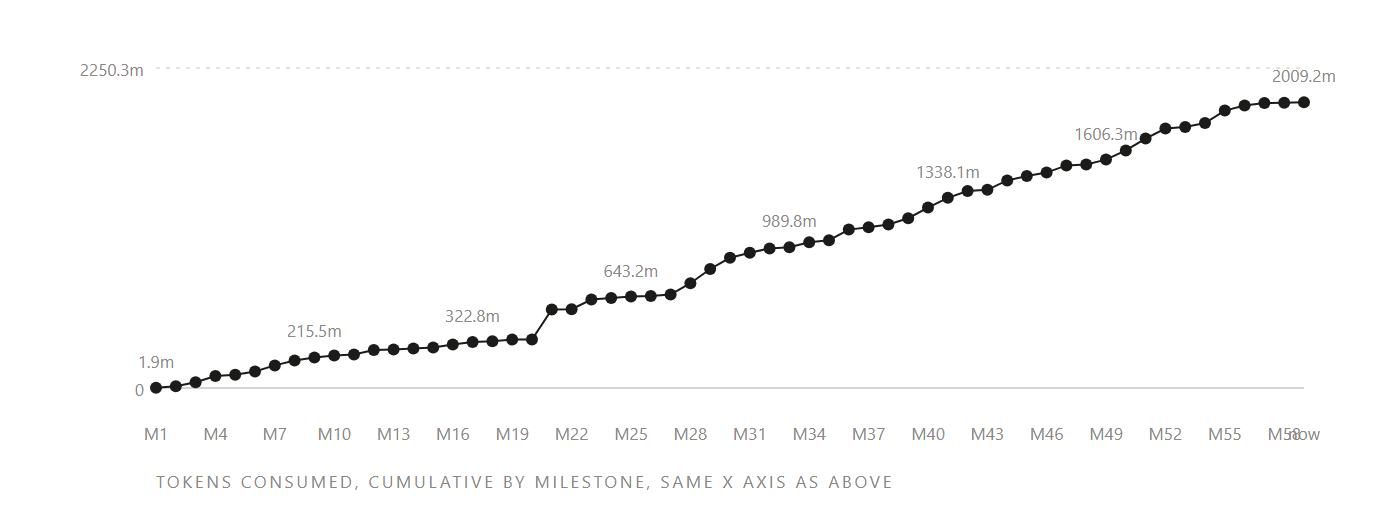
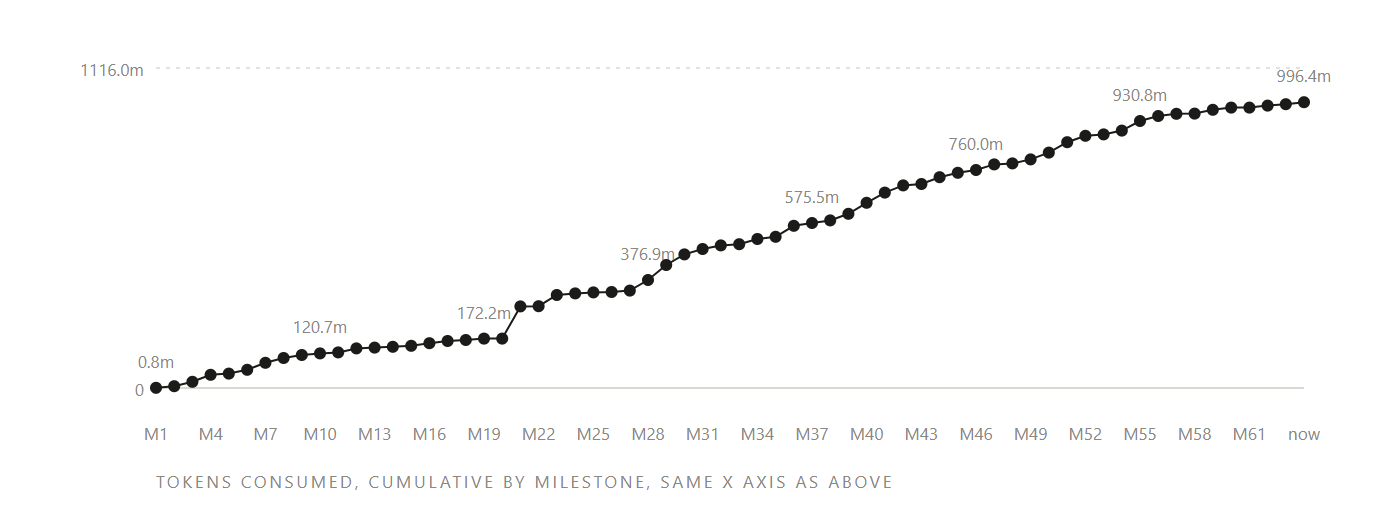
Re-export the two README logbook charts, closing the one deferred item
Playwright (Python) installed and pointed at the Chrome already on
this machine via channel="chrome", no separate Chromium download
needed. Extracts the two EN growth-chart SVGs straight out of the
built docs/logbook.html, wraps each in a minimal standalone page
carrying only the CSS rules those charts depend on (font-family,
.svg-cap, .svg-sub), and screenshots at a native 2x device scale.
Output matches the previous exports' dimensions exactly, 1400x520
each, RGB.

Both PNGs now show the corrected, sixty-three-milestone state
instead of the pre-fix fifty-eight. README alt text updated to match
in all three languages. NEXT-STEPS.md/.pt/.es marks the previously
deferred item closed, same day.

diff --git a/NEXT-STEPS.es.md b/NEXT-STEPS.es.md
@@ -66,7 +66,7 @@ En orden. Cada elemento trae su criterio de listo.
 
 Dos cosas que el relato también señaló como ya funcionando según lo previsto, registradas aquí en vez de convertidas en acción: la propia regla de dimensionamiento de este proyecto (un harness tiene que ser más pequeño que la superficie de falla que controla) se sostuvo como criterio real de decisión en ese proyecto externo más pequeño, que deliberadamente no llevó ninguna de las 38 skills ni el pipeline trilingüe de este repositorio; y un único script de checklist consolidado de prepublicación, en ese mismo proyecto, atrapó en segundos una brecha real de navegación que ocho días de revisión manual habían dejado pasar, el mismo argumento de "evidencia, no opinión" que este proyecto hace sobre los sensores.
 
-Un ítem dejado abierto a propósito: los dos gráficos del diario incrustados en el README (`docs/assets/logbook-words-published.png`, `logbook-tokens-consumed.png`) se exportan vía Chrome headless, no disponible en este entorno, así que ahora quedan una regeneración atrasados respecto a `docs/logbook.html` (todavía con la leyenda de cincuenta y ocho hitos y el conteo de tokens de antes de la corrección, el estado actual es sesenta y un hitos y el total corregido). Reexportar los dos PNG en la próxima sesión que tenga la herramienta de navegador, antes de que esto se atrase más.
+**El único ítem dejado abierto arriba, cerrado el mismo día.** Los dos gráficos del diario incrustados en el README necesitaban Chrome headless, no disponible en ese momento; se instaló Playwright (Python) y se apuntó al navegador que ya existía en esta máquina (`channel="chrome"`, sin descargar un Chromium aparte), que extrajo los dos SVG de los gráficos directo del `docs/logbook.html` ya montado y reexportó ambos a una escala nativa de dispositivo 2x, 1400×520 píxeles cada uno, coincidiendo exactamente con la dimensión de las exportaciones anteriores. Los dos ahora muestran el estado corregido de sesenta y tres hitos; el texto alternativo del README se actualizó para coincidir, en los tres idiomas.
 
 ---
 

diff --git a/NEXT-STEPS.pt.md b/NEXT-STEPS.pt.md
@@ -66,7 +66,7 @@ Em ordem. Cada item traz seu critério de pronto.
 
 Duas coisas que o relato também apontou como já funcionando como deveriam, registradas aqui em vez de viraram ação: a própria regra de dimensionamento deste projeto (um harness precisa ser menor que a superfície de falha que ele controla) se sustentou como critério real de decisão naquele projeto externo menor, que deliberadamente não trouxe nenhuma das 38 skills nem o pipeline trilíngue deste repositório; e um único script de checklist consolidado de pré-publicação, naquele mesmo projeto, pegou em segundos uma lacuna real de navegação que oito dias de revisão manual tinham deixado passar, o mesmo argumento de "evidência, não opinião" que este projeto faz sobre verificadores.
 
-Um item deixado em aberto de propósito: os dois gráficos do diário embutidos no README (`docs/assets/logbook-words-published.png`, `logbook-tokens-consumed.png`) são exportados via Chrome headless, indisponível neste ambiente, então agora ficam uma regeneração atrasados em relação a `docs/logbook.html` (ainda com legenda de cinquenta e oito marcos e a contagem de token de antes da correção, o estado atual é sessenta e um marcos e o total corrigido). Reexportar os dois PNGs na próxima sessão que tiver a ferramenta de navegador, antes que isso atrase mais.
+**O único item deixado em aberto acima, fechado no mesmo dia.** Os dois gráficos do diário embutidos no README precisavam de Chrome headless, indisponível no momento; o Playwright (Python) foi instalado e apontado para o navegador que já existia nesta máquina (`channel="chrome"`, sem baixar um Chromium separado), que extraiu os dois SVGs dos gráficos direto do `docs/logbook.html` já montado e reexportou os dois numa escala nativa de dispositivo 2x, 1400×520 pixels cada, batendo exatamente com a dimensão das exportações anteriores. Os dois agora mostram o estado corrigido de sessenta e três marcos; o texto alternativo do README foi atualizado para bater, nas três línguas.
 
 ---
 

diff --git a/NEXT-STEPS.md b/NEXT-STEPS.md
@@ -66,7 +66,7 @@ In order. Every item carries its done criterion.
 
 Two things the write-up also named as working as intended, kept here for the record rather than acted on: this project's own sizing rule (a harness has to be smaller than the failure surface it controls) held up as a real decision criterion on that smaller external project, which deliberately carried none of this repository's 38 skills or trilingual pipeline; and a single consolidated pre-publication checklist script on that same project caught, in seconds, a real navigation gap eight days of manual review had missed, the same "evidence, not opinion" argument this project makes about sensors.
 
-One item deliberately left open: the README's two embedded logbook charts (`docs/assets/logbook-words-published.png`, `logbook-tokens-consumed.png`) are exported via headless Chrome, not available in this environment, so they now sit one regeneration behind `docs/logbook.html` (still captioned fifty-eight milestones and the pre-fix token count, current state is sixty-one milestones and the corrected total). Re-export both PNGs next session that has the browser tooling, before this drifts any further.
+**The one item left open above, closed the same day.** The README's two embedded logbook charts needed headless Chrome, unavailable at the time; Playwright (Python) was installed and pointed at the browser already on this machine (`channel="chrome"`, no separate Chromium download), which extracted the two chart SVGs directly out of the built `docs/logbook.html` and re-exported both at a native 2x device scale, 1400×520 pixels each, matching the previous exports' dimensions exactly. Both now show the corrected, sixty-three-milestone state; the README's alt text was updated to match in all three languages.
 
 ---
 

diff --git a/README.es.md b/README.es.md
@@ -112,7 +112,7 @@ Inspeccionar, en la tabla de arriba, significa sensores que producen evidencia, 
 Cada commit se vuelve un hito en [docs/logbook.html](docs/logbook.html), trilingüe, generado a partir del historial de git y el uso real de tokens de esta sesión, nunca editado a mano. Dos gráficos, no uno con dos ejes, porque mezclar dos escalas arbitrarias en la misma regla es exactamente el error contra el que la parte 2 advierte a los propios sensores de un agente. Los dos comparten el mismo eje X, el orden de los hitos, así que puedes ver cuándo la escritura se aceleró respecto al costo en tokens, o al revés.
 
 <p align="center">
-  <img src="docs/assets/logbook-words-published.png" alt="Palabras publicadas, acumuladas por hito: una línea escalonada que crece de 20.197 a 117.677 palabras a lo largo de cincuenta y ocho hitos" width="680">
+  <img src="docs/assets/logbook-words-published.png" alt="Palabras publicadas, acumuladas por hito: una línea escalonada que crece de 20.197 a 117.677 palabras a lo largo de sesenta y tres hitos" width="680">
 </p>
 
 <p align="center"><em>Palabras publicadas en toda la serie, sumadas. Crece en escalones, la mayor parte del texto nace dentro de un solo hito, no gradualmente entre hitos. Retrato del momento de la última regeneración del diario, ver <a href="docs/logbook.html">docs/logbook.html</a> para la versión actual.</em></p>

diff --git a/README.pt.md b/README.pt.md
@@ -112,7 +112,7 @@ Inspecionar, na tabela acima, significa verificadores que produzem evidência, n
 Todo commit vira um marco em [docs/logbook.html](docs/logbook.html), trilíngue, gerado a partir do histórico do git e do uso real de tokens desta sessão, nunca editado à mão. Dois gráficos, não um com dois eixos, porque misturar duas escalas arbitrárias na mesma régua é exatamente o erro que a parte 2 adverte contra os próprios verificadores de um agente. Os dois compartilham o mesmo eixo X, a ordem dos marcos, então dá pra ver quando a escrita acelerou em relação ao custo em tokens, ou o contrário.
 
 <p align="center">
-  <img src="docs/assets/logbook-words-published.png" alt="Palavras publicadas, acumuladas por marco: uma linha em degraus crescendo de 20.197 para 117.677 palavras ao longo de cinquenta e oito marcos" width="680">
+  <img src="docs/assets/logbook-words-published.png" alt="Palavras publicadas, acumuladas por marco: uma linha em degraus crescendo de 20.197 para 117.677 palavras ao longo de sessenta e três marcos" width="680">
 </p>
 
 <p align="center"><em>Palavras publicadas em toda a série, somadas. Cresce em degraus, a maior parte do texto nasce dentro de um único marco, não gradualmente entre marcos. Retrato do momento da última regeneração do diário, ver <a href="docs/logbook.html">docs/logbook.html</a> para a versão atual.</em></p>

diff --git a/README.md b/README.md
@@ -112,7 +112,7 @@ Inspect, in the table above, means sensors that produce evidence, not opinion. T
 Every commit becomes a milestone in [docs/logbook.html](docs/logbook.html), trilingual, generated from git history and this session's real token usage, never edited by hand. Two charts, not one with two axes, because mixing two arbitrary scales on the same ruler is exactly the mistake Part 2 warns an agent's own sensors against. Both share the same X axis, the order of milestones, so a reader can see when writing sped up relative to token cost, or the other way round.
 
 <p align="center">
-  <img src="docs/assets/logbook-words-published.png" alt="Words published, cumulative by milestone: a stepped line growing from 20,197 to 117,677 words across fifty-eight milestones" width="680">
+  <img src="docs/assets/logbook-words-published.png" alt="Words published, cumulative by milestone: a stepped line growing from 20,197 to 117,677 words across sixty-three milestones" width="680">
 </p>
 
 <p align="center"><em>Words published across the series, summed. It grows in steps, most text is born within a single milestone, not gradually between milestones. Snapshot as of the logbook's last regeneration, see <a href="docs/logbook.html">docs/logbook.html</a> for the current version.</em></p>
